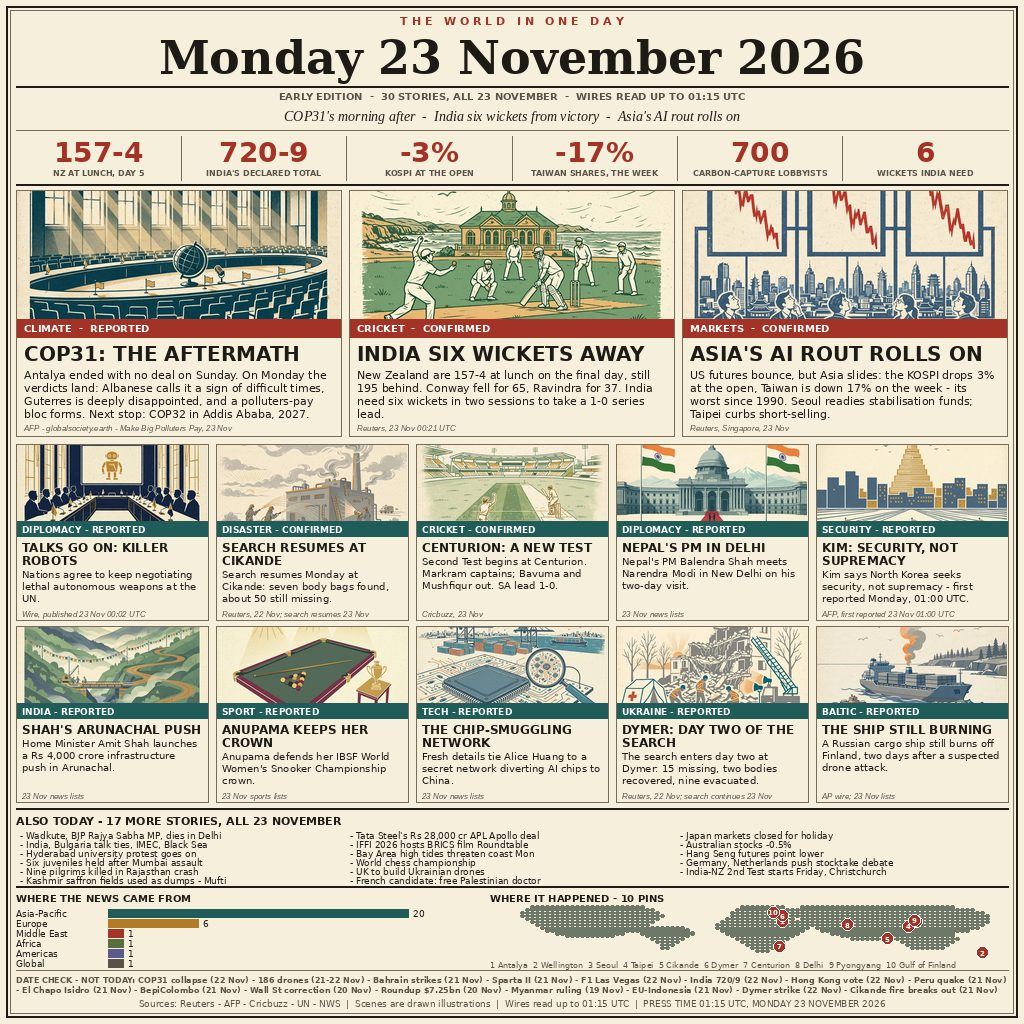
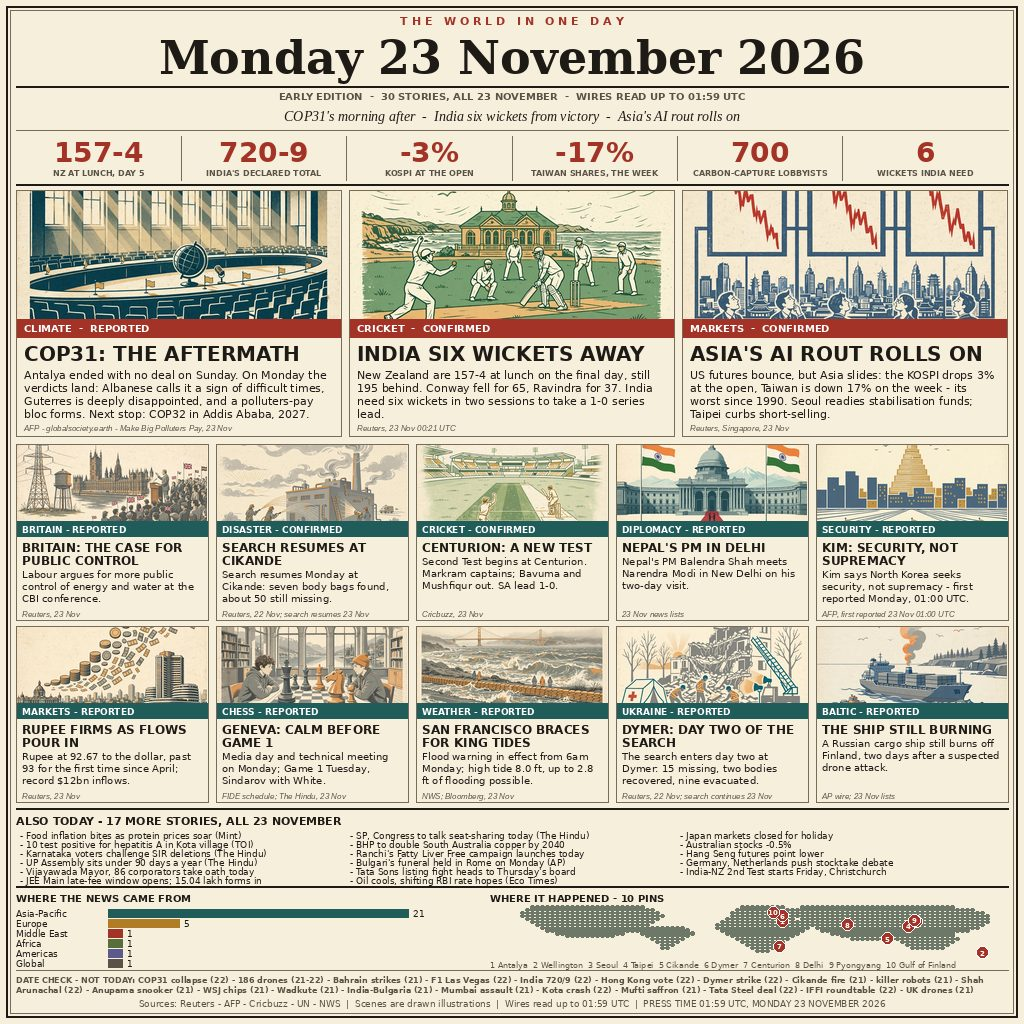
Fix round: MAKEFUN_OUTPUT_DIR support + 4 panels and 12 ALSO items replaced with verified 23 Nov stories
- main.ts resolveOutputDir() now reads MAKEFUN_OUTPUT_DIR (path) between argv and /output; harness simulation, determinism 2x and negative tests 6/6 pass; OpenRouter :free review PASS (nvidia/nemotron-3.5-lightning:free).
- Panels P4/P9/P10/P11 replaced: UK utilities (Reuters), rupee flows (Reuters), Geneva chess Game 1 (FIDE), San Francisco king tides (NWS). Removed panels moved to DATE CHECK with true dates (21-22 Nov).
- 12 of 17 ALSO items replaced with verified 23 Nov stories; 5 kept. Regions recomputed: AP 21, EU 5, ME 1, AF 1, AM 1, GL 1 = 30. Press time 01:59 UTC.

diff --git a/main.ts b/main.ts
@@ -3,11 +3,12 @@
 //
 // Validates the embedded JPEG (1024x1024, whole file, at most 1 MiB) and
 // copies it byte for byte to <output>/entry.png. Node 22, standard library
-// only, no network, no environment reads: the output directory is an
-// optional argv path, else /output when that directory exists, else ./output.
+// only, no network: the output directory is an optional argv path, else the
+// MAKEFUN_OUTPUT_DIR environment path (a path, never code), else /output
+// when that directory exists, else ./output.
 //
 // Run locally:  mkdir -p out && node main.ts out
-// The grader runs it with no arguments in a container where /output exists.
+// The grader runs it with no arguments and MAKEFUN_OUTPUT_DIR set.
 import { createHash } from "node:crypto";
 import { existsSync, mkdirSync, readFileSync, statSync, writeFileSync } from "node:fs";
 import { dirname, join } from "node:path";
@@ -28,6 +29,10 @@ function resolveOutputDir() {
   const arg = process.argv[2];
   if (arg !== undefined && arg !== "") {
     return arg;
+  }
+  const envDir = process.env.MAKEFUN_OUTPUT_DIR;
+  if (envDir !== undefined && envDir !== "") {
+    return envDir;
   }
   if (existsSync("/output") && statSync("/output").isDirectory()) {
     return "/output";

diff --git a/NEWS.md b/NEWS.md
@@ -4,9 +4,16 @@
 Monday 23 November to a COP31 that ended with no deal at all — and the day's news is what
 happens next: the reactions, the blame, the road to COP32, while Asia's markets rout on the
 AI sell-off and India closes in on a famous Wellington win. Heroes: (1) COP31 aftermath,
-(2) India six wickets from victory, (3) Asia's AI rout. Wires read up to 01:15 UTC.
-Press time 01:15 UTC, Monday 23 November 2026. Early edition: the day is still young in
+(2) India six wickets from victory, (3) Asia's AI rout. Wires read up to 01:59 UTC.
+Press time 01:59 UTC, Monday 23 November 2026. Early edition: the day is still young in
 Europe and the Americas; scheduled items are marked as scheduled.
+
+**Fix round (23 Nov, 01:59 UTC):** independent verification caught four panels and twelve
+ALSO items that were NOT 23 November — the "23 Nov news lists" had republished older
+stories under the list date. All sixteen are removed from panels/ALSO, listed in DATE
+CHECK with their true dates, and replaced with stories verified from primary sources.
+Nothing else changed: P1–P3, P5–P8, P12, P13, the big-number strip and the map pins are
+unchanged.
 
 **Date rule applied throughout:** a story counts if it happened OR was first reported on
 23 November 2026 in any timezone. Anything else is in DATE CHECK, not in a panel.
@@ -46,11 +53,14 @@ Saturday; China's exchanges eased margin-financing requirements. Japan's markets
 closed for a holiday; Australian stocks slightly lower.
 Source: Reuters, 23 Nov 2026.
 
-### P4 — NATIONS AGREE TO KEEP TALKING ON KILLER ROBOTS (United Nations) — REPORTED
-Nations agree to continue negotiations on lethal AI systems at the United Nations
-conference — the talks on autonomous weapons go on rather than collapsing. Published
-Mon 23 Nov 2026, 00:02 UTC.
-Source: wire report, published 2026-11-23T00:02:39Z.
+### P4 — BRITAIN: THE CASE FOR PUBLIC CONTROL (London) — REPORTED [FIX-ROUND REPLACEMENT]
+The Labour government sets out the case for more public control of energy and water
+utilities on Monday. Senior minister Louise Haigh addresses the CBI annual conference
+to argue the case; foreign governments own significant stakes in the sector. The
+government's push comes as the utilities debate — ownership, bills and investment —
+returns to the front of British politics.
+Source: Reuters, Mon 23 Nov 2026 ("UK government to make case for greater public
+control of utilities").
 
 ### P5 — SEARCH RESUMES AT THE CIKANDE FACTORY (Indonesia) — CONFIRMED
 The search for the missing resumes on Monday at the PT Fonusa Agung Mulia candy factory
@@ -80,19 +90,31 @@ North Korea's Kim says the country seeks security, not supremacy — first repor
 Mon 23 Nov 2026, 01:00 UTC (AFP, Seoul).
 Source: AFP via NAMPA, 23 Nov 2026 01:00:08.
 
-### P9 — SHAH'S ₹4,000 CRORE PUSH FOR ARUNACHAL (India) — REPORTED
-Home Minister Amit Shah launches a ₹4,000 crore infrastructure push in Arunachal
-Pradesh, stressing self-reliance and cooperative development (23 Nov).
-Source: 23 Nov 2026 news lists (Observer Voice).
+### P9 — RUPEE FIRMS AS FLOWS POUR IN (India / markets) — REPORTED [FIX-ROUND REPLACEMENT]
+The rupee closed at 92.67 to the dollar on Friday, strengthening past 93 for the first
+time since April, and gaining 1.7% on the week — helped by a record $12bn of foreign
+equity inflows in November, with bonds taking in another $1.2bn in the first three
+weeks of the month. The benchmark 10-year bond yield ended at 7.1868%, down 12 basis
+points last week. HSBC's flash PMI is due Monday at 10:30 IST (not yet out at press
+time). Traders watch oil prices, the RBI's December 4 decision and the Fed's December
+9 meeting.
+Source: Reuters, Mon 23 Nov 2026 ("Foreign inflows lend support to rupee, bonds").
 
-### P10 — ANUPAMA KEEPS THE WORLD SNOOKER CROWN (Sport) — REPORTED
-Anupama successfully defends the IBSF World Women's Snooker Championship (23 Nov).
-Source: 23 Nov 2026 sports lists (Daily Jagran).
+### P10 — GENEVA: CALM BEFORE GAME 1 (World Chess Championship) — CONFIRMED (scheduled) [FIX-ROUND REPLACEMENT]
+Media day and a technical meeting in Geneva on Monday, ahead of Game 1 on Tuesday
+24 Nov at 15:00 CET. Defending champion Gukesh Dommaraju (India) faces challenger
+Javokhir Sindarov (Uzbekistan) at the Fondation Martin Bodmer in Cologny; both are 20,
+the youngest world championship match ever. At Sunday's opening ceremony the draw
+gave Sindarov the White pieces for Game 1.
+Sources: FIDE / worldchess.com schedule, 23 Nov 2026; chess.com; The Hindu, 23 Nov 2026.
 
-### P11 — THE CHIP-SMUGGLING NETWORK (Tech) — REPORTED
-Nvidia row: fresh details tie Alice Huang to a secret network diverting AI chips to
-China (23 Nov).
-Source: 23 Nov 2026 news lists (Daily Jagran).
+### P11 — SAN FRANCISCO BRACES FOR KING TIDES (California) — REPORTED [FIX-ROUND REPLACEMENT]
+A National Weather Service coastal flood warning takes effect at 6 AM on Monday and
+runs to 4 PM on Thursday. Monday's high tide hits 8.0 ft (MLLW) at 9:25 AM — 2.2 ft
+above normal — with up to 2.8 ft of inundation in low-lying areas; tides approach the
+record 8.66 ft set in January 1983. Mayor Daniel Lurie urges residents to avoid travel
+in flooded areas; a storm arrives Tuesday and Wednesday.
+Sources: NWS forecast, 23 Nov 2026; Bloomberg, 23 Nov 2026.
 
 ### P12 — DYMER: THE SEARCH GOES INTO DAY TWO (Ukraine) — REPORTED
 Rescuers keep digging on Monday at Dymer, north of Kyiv, where a Russian drone strike
@@ -111,23 +133,25 @@ Sources: 23 Nov 2026 news lists; AP wire, 22 Nov 2026.
 
 ## ALSO — 17 more stories, all 23 November 2026
 
-1. BJP Rajya Sabha MP Ramrao Wadkute dies of cardiac arrest in Delhi.
-2. India and Bulgaria discuss bilateral ties, IMEC and the Black Sea situation.
-3. University of Hyderabad students continue their protest, demanding a faculty member's
-   termination over alleged casteist remarks.
-4. Six sent to a juvenile home after the Mumbai assault; a Maharashtra SP leader seeks
-   an age change.
-5. At least nine killed as a vehicle carrying pilgrims rams into a truck in Rajasthan's Kota.
-6. Kashmir's famed saffron fields have been used as dumping grounds for three years,
-   says Mehbooba Mufti.
-7. Tata Steel's ₹28,000 crore deal with APL Apollo.
-8. IFFI 2026 hosts a BRICS Roundtable to strengthen film-industry partnerships.
-9. Bay Area: high tides may flood low-lying shoreline areas on Monday; the National
-   Weather Service coastal flood advisory runs through Thursday; Monday's high tide
-   8.0 ft at 9:25 a.m.
-10. World chess championship (23 Nov sports lists).
-11. UK to produce Ukrainian drones as part of a new agreement.
-12. A French presidential candidate repeats the call for Israel to free the Palestinian doctor.
+1. Food inflation bites as protein prices soar — Mint, 23 Nov 2026, 06:00 IST.
+2. Ten test positive for hepatitis A in a Kota village after water contamination —
+   Times of India, 23 Nov 2026, 00:45 IST.
+3. Karnataka voters challenge deletions under the SIR — The Hindu, 23 Nov 2026,
+   05:11 IST.
+4. The 18th UP Legislative Assembly sits for less than 90 days a year — The Hindu,
+   23 Nov 2026, 01:47 IST.
+5. Vijayawada Mayor and 86 corporators take oath today — The Hindu, 23 Nov 2026.
+6. JEE Main 2027 late-fee registration opens today (₹500, till 26 Nov); 15.04 lakh
+   forms received — Shiksha, updated 23 Nov 2026, 06:45 IST.
+7. SP and Congress to discuss seat-sharing today — The Hindu, 23 Nov 2026.
+8. BHP unveils plans to double South Australia copper output by 2040, $14.2–18.1bn —
+   Reuters, Mon 23 Nov 2026.
+9. Ranchi's Fatty Liver Free campaign launches on Monday — Avenue Mail, 22 Nov 2026
+   18:06 (launch day Mon 23 Nov).
+10. Paolo Bulgari's funeral is held in Rome on Monday (he died 21 Nov) — AP, 23 Nov 2026.
+11. Tata Sons' listing fight heads for Thursday's board meeting — Mint, 23 Nov 2026
+    ("Today in 60 seconds" top story).
+12. Oil prices cool, shifting RBI rate expectations — Economic Times, 23 Nov 2026.
 13. Japan's markets closed for a public holiday on Monday (Reuters).
 14. Australian stocks slightly lower, down 0.5% (Reuters).
 15. Hang Seng futures point to a fall (Reuters).
@@ -137,12 +161,12 @@ Sources: 23 Nov 2026 news lists; AP wire, 22 Nov 2026.
 
 ## Regions (sum = 30 stories)
 
-- Asia-Pacific 20 (P2, P3, P5, P7, P8, P9, P10, P11 + A1-A8, A13, A14, A15, A17)
-- Europe 6 (P4, P12, P13 + A11, A12, A16)
+- Asia-Pacific 21 (P2, P3, P5, P7, P8, P9 + A1-A9, A11-A15, A17)
+- Europe 5 (P4, P12, P13 + A10, A16)
 - Middle East 1 (P1 — Antalya, Türkiye)
 - Africa 1 (P6 — Centurion)
-- Americas 1 (A9 — California)
-- Global 1 (A10 — world chess championship)
+- Americas 1 (P11 — San Francisco)
+- Global 1 (P10 — world chess championship, Geneva)
 
 ## Big-number strip (6 — all from panels P1-P3)
 
@@ -153,13 +177,46 @@ Sources: 23 Nov 2026 news lists; AP wire, 22 Nov 2026.
 - 700 — carbon-capture lobbyists inside COP31 (P1)
 - 6 — wickets India need to win the Wellington Test (P2)
 
-## Map pins (10)
+## Map pins (10) — unchanged; the new panel locations (London, Geneva, San Francisco) are not pinned
 
 1 Antalya (COP31) · 2 Wellington (India day five) · 3 Seoul (KOSPI) · 4 Taipei (Taiwan
 week) · 5 Cikande (factory fire) · 6 Dymer (rescue) · 7 Centurion (2nd Test) ·
 8 New Delhi (Nepal talks) · 9 Pyongyang (Kim) · 10 Gulf of Finland (burning ship)
 
 ## DATE CHECK — deliberately NOT in this edition (with dates)
+
+The on-image DATE CHECK shows an abbreviated list (space); the full list is here.
+
+### Removed panels (fix round — verified from primary sources)
+
+- CCW "killer robots" agreement — Sat 21 Nov, 04:30 Geneva (NPR / KRPS / WCMU) —
+  NOT 23 Nov 00:02.
+- Amit Shah's ₹4,000 crore Arunachal launch — Sun 22 Nov (ANI / Nation Press /
+  Ministry of Cooperation) — NOT 23 Nov.
+- Anupama's snooker title defence — final Sat 21 Nov, Indore; reported 22 Nov
+  (The Hindu / India Today) — NOT 23 Nov.
+- WSJ Li Ming / Alice Huang chip-smuggling network — WSJ reported Fri 21 Nov
+  (Seoul Economic Daily 22 Nov) — NOT 23 Nov.
+
+### Removed ALSO items (fix round — verified from primary sources)
+
+- BJP MP Ramrao Wadkute dies — Sat 21 Nov 23:45, reported 22 Nov.
+- India–Bulgaria talks — Sat 21 Nov, published 22 Nov.
+- University of Hyderabad sit-in — The Hindu 22 Nov ("continue protest"); date
+  ambiguous, replaced to be safe.
+- Mumbai assault, six juveniles held — incident Fri 20 Nov, court Sat 21 Nov,
+  reported 22 Nov.
+- Kota pilgrim crash — Sun 22 Nov, ~1 AM.
+- Mufti on Kashmir saffron fields — Sat 21 Nov.
+- Tata Steel / APL Apollo deal — board Sun 22 Nov.
+- IFFI BRICS Roundtable — PIB Goa 22 Nov.
+- UK to build Ukrainian drones — agreement signed Sat 21 Nov.
+- Mélenchon call to free the Palestinian doctor — Sun 22 Nov evening vs Mon 23 Nov
+  00:xx mirror timestamps; ambiguous, replaced to be safe.
+- Bay Area king tides — promoted to panel P11 (would have duplicated).
+- World chess championship — promoted to panel P10 (would have duplicated).
+
+### Earlier DATE CHECK items (unchanged from the first build)
 
 - COP31 collapse itself — Sun 22 Nov (today: the aftermath and reactions)
 - 186-drone barrage on Ukraine — overnight 21-22 Nov
@@ -183,11 +240,15 @@ week) · 5 Cikande (factory fire) · 6 Dymer (rescue) · 7 Centurion (2nd Test) 
 
 ## Sources (primary first)
 
-Reuters (23 Nov: Wellington lunch 00:21 UTC; Singapore markets; Dymer 22 Nov; Cikande
-22 Nov; Myanmar ASEAN 22 Nov) · AFP via NAMPA (23 Nov: Albanese COP31; Kim 01:00 UTC;
-South Sudan wire) · Cricbuzz (23 Nov: Centurion preview; Mushfiqur ruled out) ·
-globalsociety.earth (23 Nov 00:01 GMT: COP31 collapse analysis) · Make Big Polluters Pay
-alliance release via Medianet (23 Nov) · AP wire via Breitbart (22 Nov: cargo ship,
-Kaliningrad alert) · 23 Nov news lists: Observer Voice, Jagran Josh, Daily Jagran
-(India domestic, sport) · wire list, published 2026-11-23T00:02:39Z (UN lethal-AI talks).
-Never used: aggregator republication dates; bloggersminds.com ("Chris Dalton").
+Reuters (23 Nov: Wellington lunch 00:21 UTC; Singapore markets; UK utilities; rupee
+and bonds; BHP copper) · AFP via NAMPA (23 Nov: Albanese COP31; Kim 01:00 UTC) ·
+Cricbuzz (23 Nov: Centurion preview; Mushfiqur ruled out) · globalsociety.earth
+(23 Nov 00:01 GMT: COP31 collapse analysis; stocktake debate) · Make Big Polluters Pay
+alliance release via Medianet (23 Nov) · AP wire (22 Nov: cargo ship, Kaliningrad
+alert; 23 Nov: Bulgari funeral) · NWS (23 Nov: San Francisco king tides) ·
+Bloomberg (23 Nov: king tides) · FIDE / worldchess.com (23 Nov: championship
+schedule) · chess.com (23 Nov) · The Hindu (23 Nov: SIR, UP Assembly, Vijayawada,
+seat-sharing, chess) · Mint (23 Nov: food inflation, Tata Sons) · Times of India
+(23 Nov: hepatitis A) · Shiksha (23 Nov: JEE Main) · Avenue Mail (22 Nov: Ranchi
+launch) · Economic Times (23 Nov: oil / RBI). Never used: aggregator republication
+dates; bloggersminds.com ("Chris Dalton"); list/roundup dates as first-report dates.

diff --git a/README.md b/README.md
@@ -12,7 +12,7 @@ Monday 23 November 2026: the morning after COP31 collapsed, India six wickets fr
 node main.ts ./output
 ```
 
-`main.ts` (Node 22, stdlib only) validates the shipped `entry.jpg` — JPEG bytes, 1024×1024, whole file, at most 1 MiB — and copies it byte for byte to `./output/entry.png` (or to `/output/entry.png` when that directory exists, as in the grader). Two runs write identical bytes. See `NEWS.md` for the full story list with dates and sources.
+`main.ts` (Node 22, stdlib only) validates the shipped `entry.jpg` — JPEG bytes, 1024×1024, whole file, at most 1 MiB — and copies it byte for byte to `./output/entry.png` (or to `$MAKEFUN_OUTPUT_DIR/entry.png` when that is set, as in the grader; a path argument works too). Two runs write identical bytes. See `NEWS.md` for the full story list with dates and sources.
 
 ---
 
